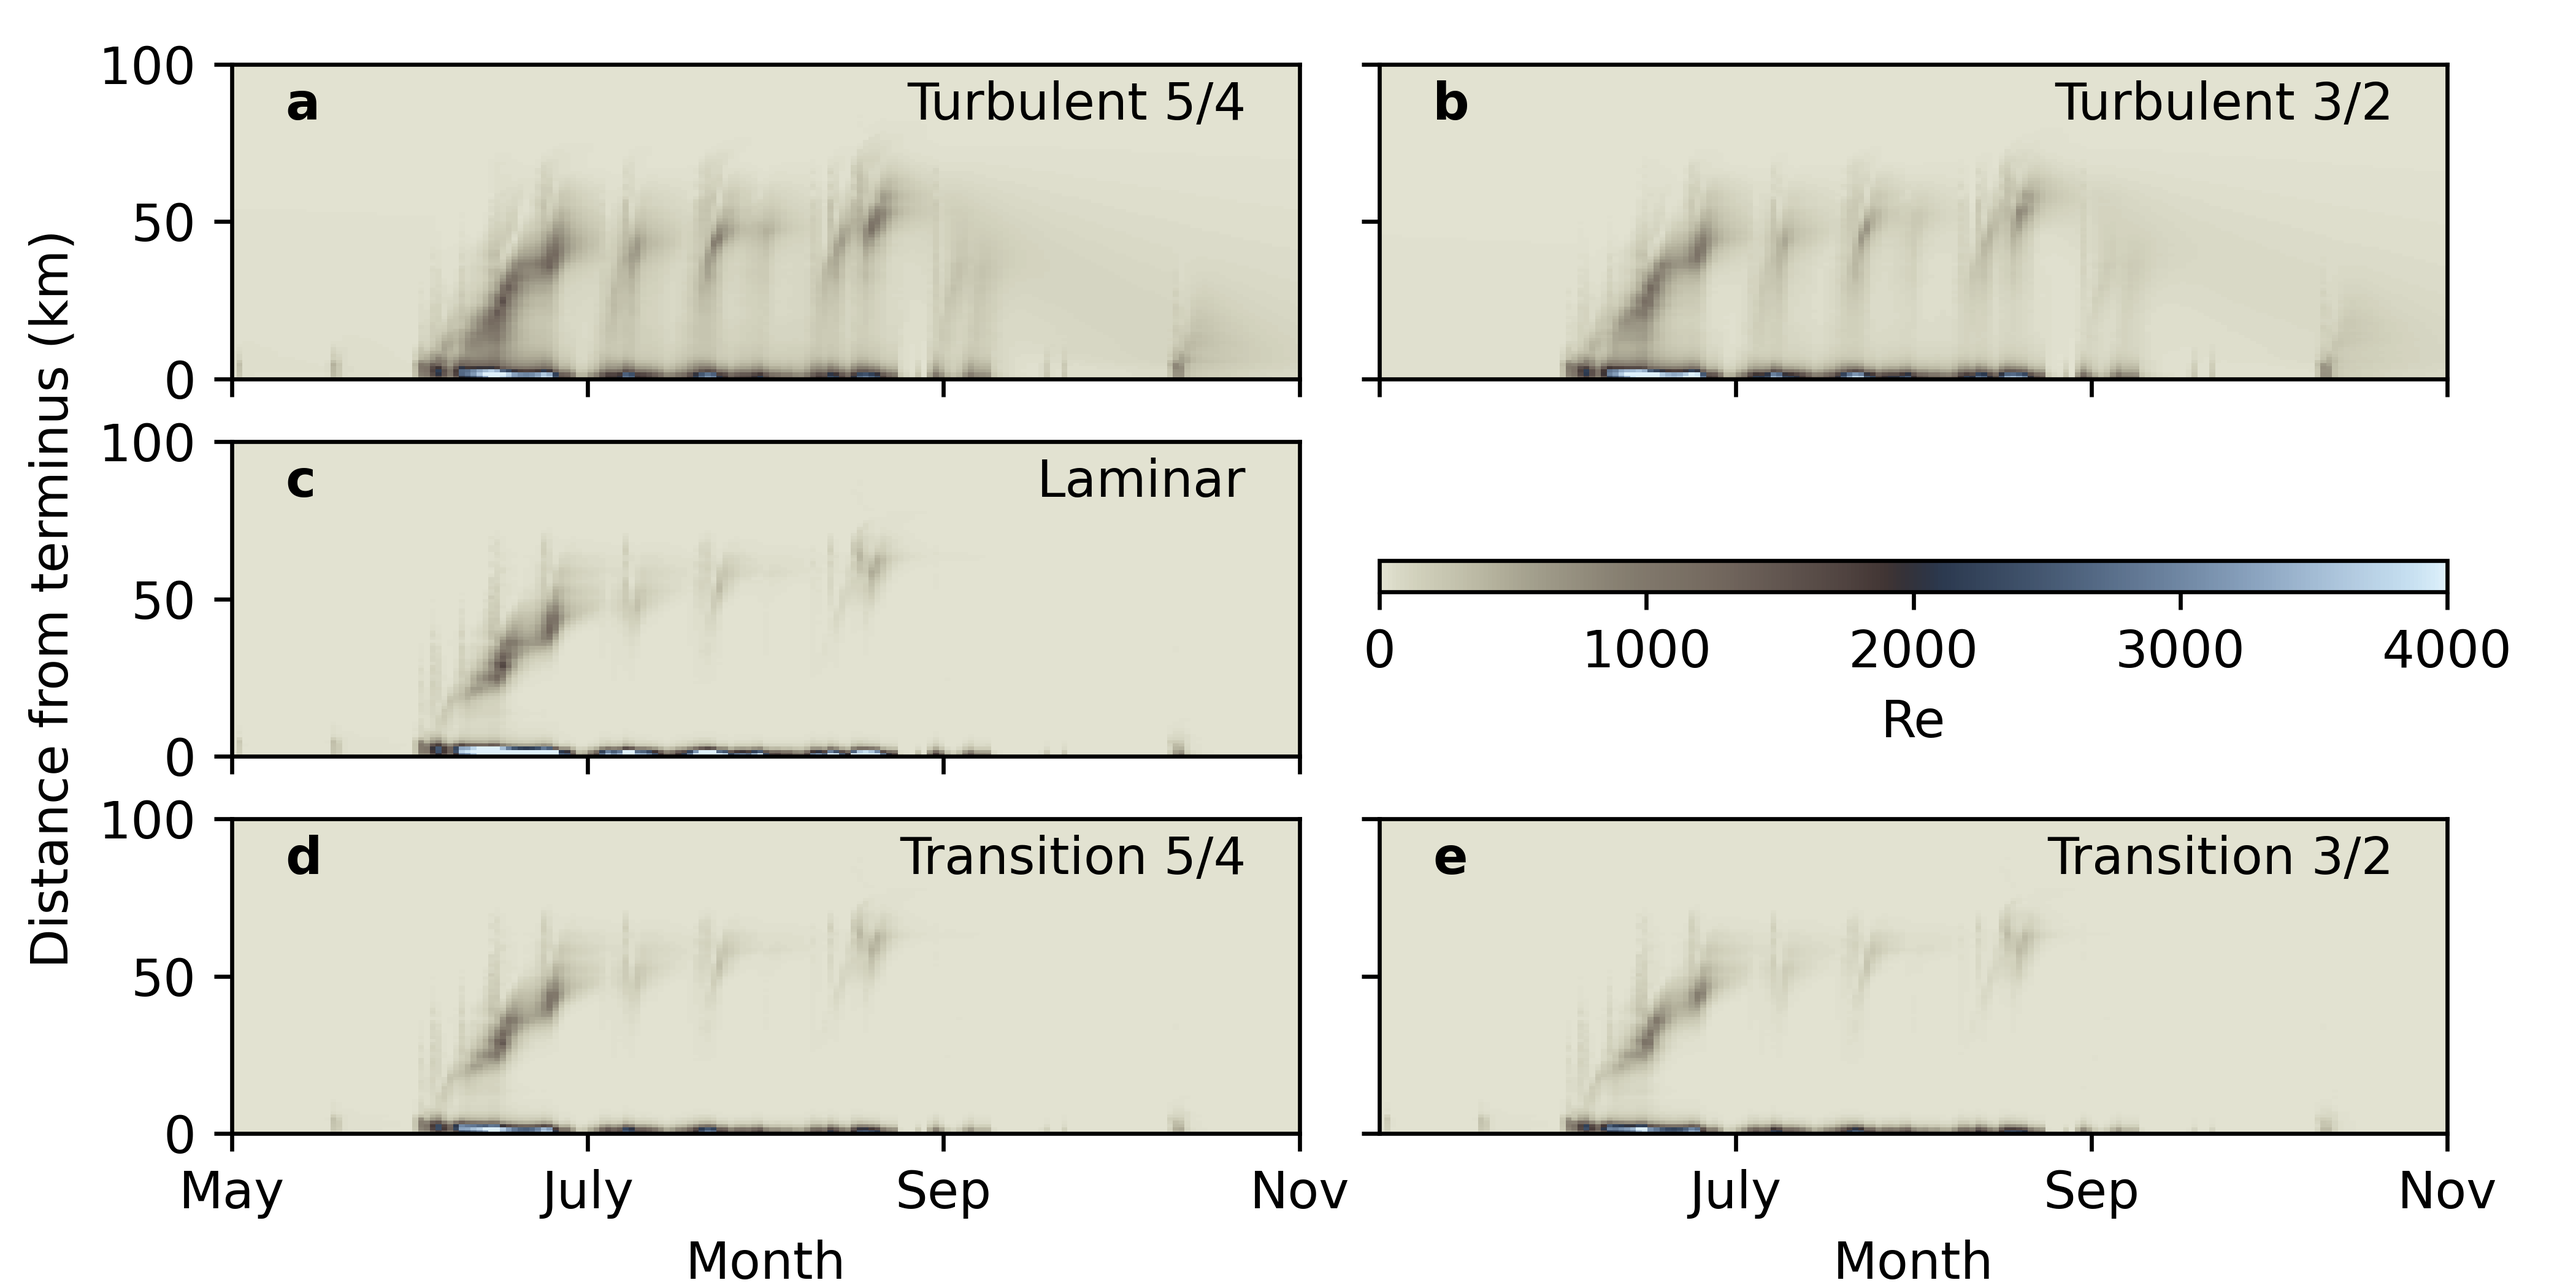
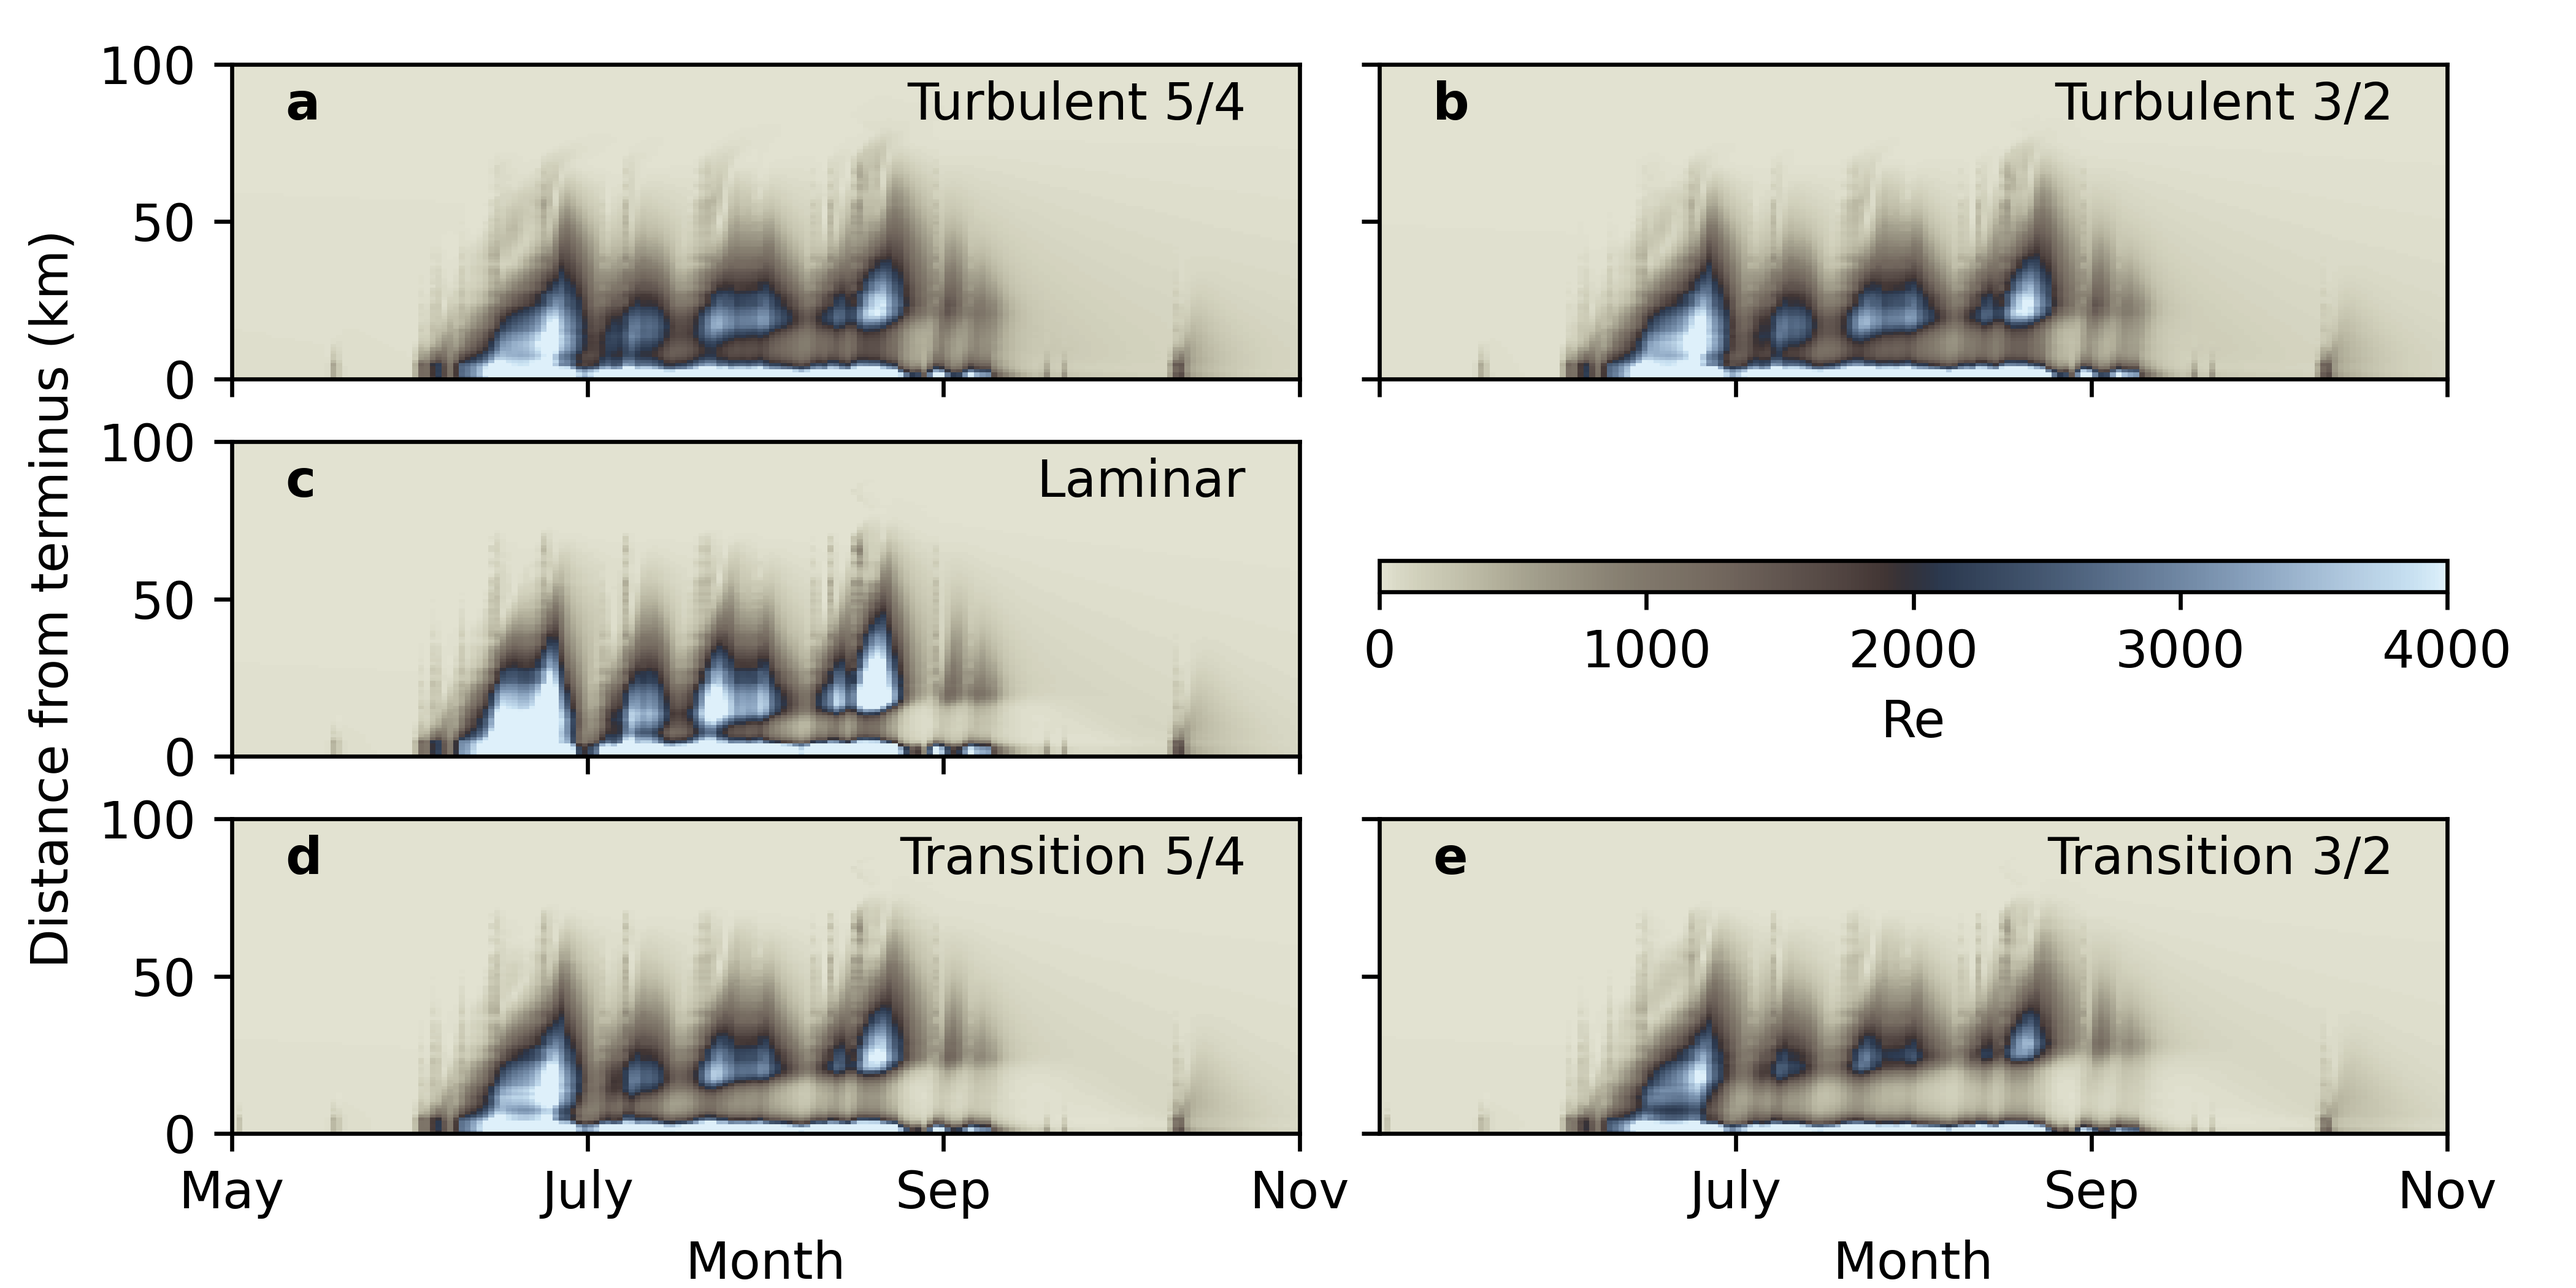
Sensitivity plots

diff --git a/analysis/make_pressure_figs.py b/analysis/make_pressure_figs.py
@@ -164,7 +164,7 @@ fig_03c = plot_pressure_maps_timeseries(fnames, figname, Qmin=1, Qmax=200, melt_
 cases = [1, 2, 3, 4, 5]
 pattern = '/home/tghill/scratch/laminar-turbulent/glads/S01b_parameter_sensitivity/RUN/output_%03d_seasonal.nc'
 fnames = [pattern % caseid for caseid in cases]
-figname = 'figures/supplement/S01a_pressure_seasonal_params.png'
+figname = 'figures/supplement/S01b_pressure_seasonal_params.png'
 fig_01 = plot_pressure_maps_timeseries(fnames, figname, Qmin=1, Qmax=100, melt_forcing='KAN',
      **KAN_opts, ff_ylim=[0, 1.75], ff_yticks=[0, 0.5, 1, 1.5])
 plt.show()

diff --git a/analysis/plot_Re_spacetime.py b/analysis/plot_Re_spacetime.py
@@ -149,7 +149,7 @@ if __name__=='__main__':
     main(fnames, figname, Re_ylim=(0, 4e3))
 
     cases = [1, 2, 3, 4, 5]
-    fpattern = '/home/tghill/scratch/laminar-turbulent/glads/S01b_parameter_sensitivity/RUN.0/output_%03d_seasonal.nc'
+    fpattern = '/home/tghill/scratch/laminar-turbulent/glads/S01b_parameter_sensitivity/RUN/output_%03d_seasonal.nc'
     fnames = [fpattern%caseid for caseid in cases]
     figname = 'figures/aux/S01b_Re.png'
     main(fnames, figname, Re_ylim=(0, 4e3))

diff --git a/glads/01c_kan_diurnal/run_job.m b/glads/01c_kan_diurnal/run_job.m
@@ -46,7 +46,7 @@ config.fname_seasonal = fname_seasonal;
 para_steady = get_para_steady(config);
 para_steady.physical;
 pa = para_steady;
-run_model(para_steady);
+%run_model(para_steady);
   
 para_seasonal = get_para_seasonal(config);
 run_model(para_seasonal);
